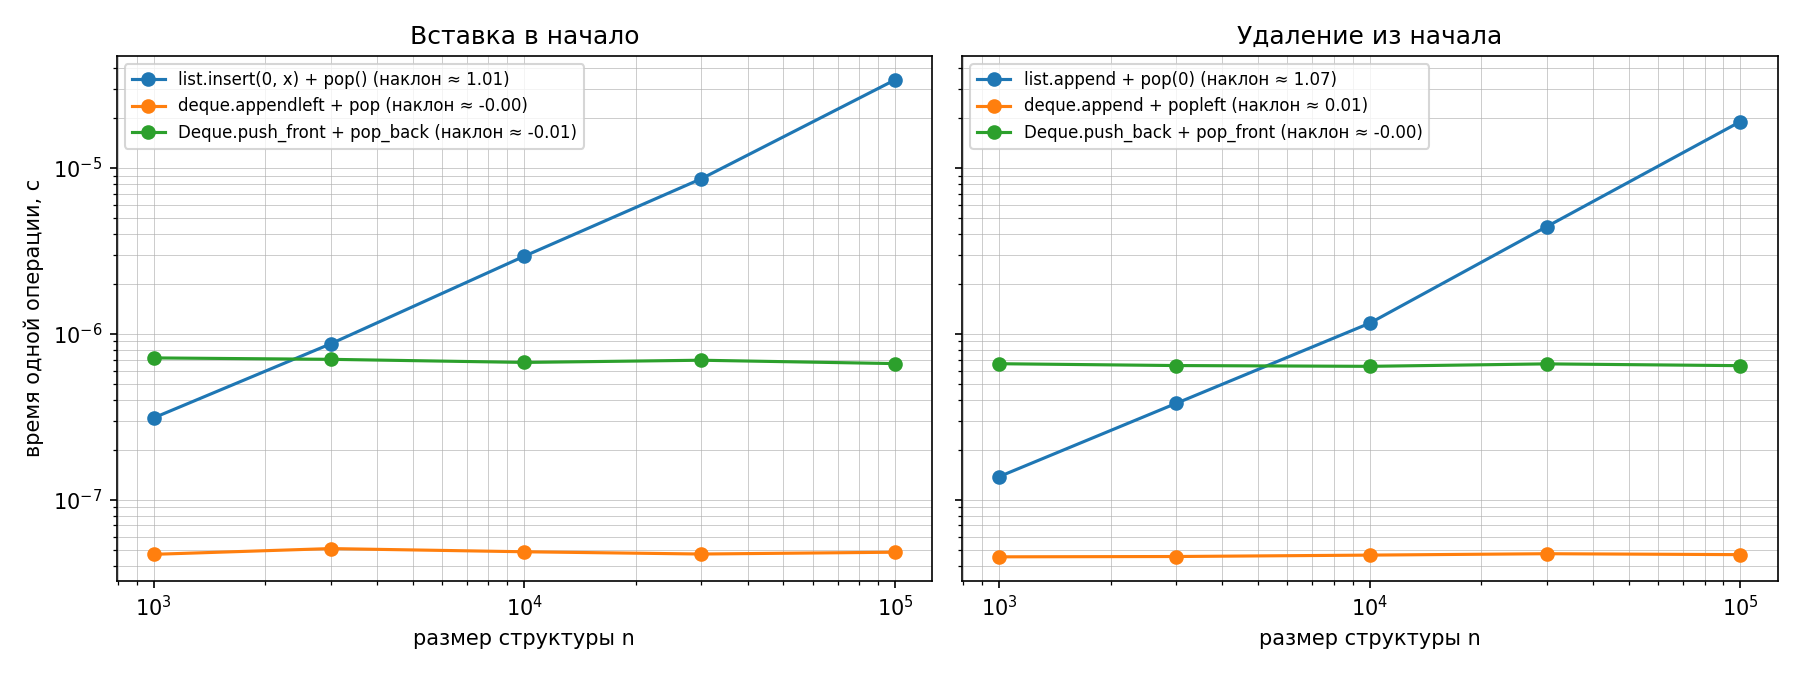
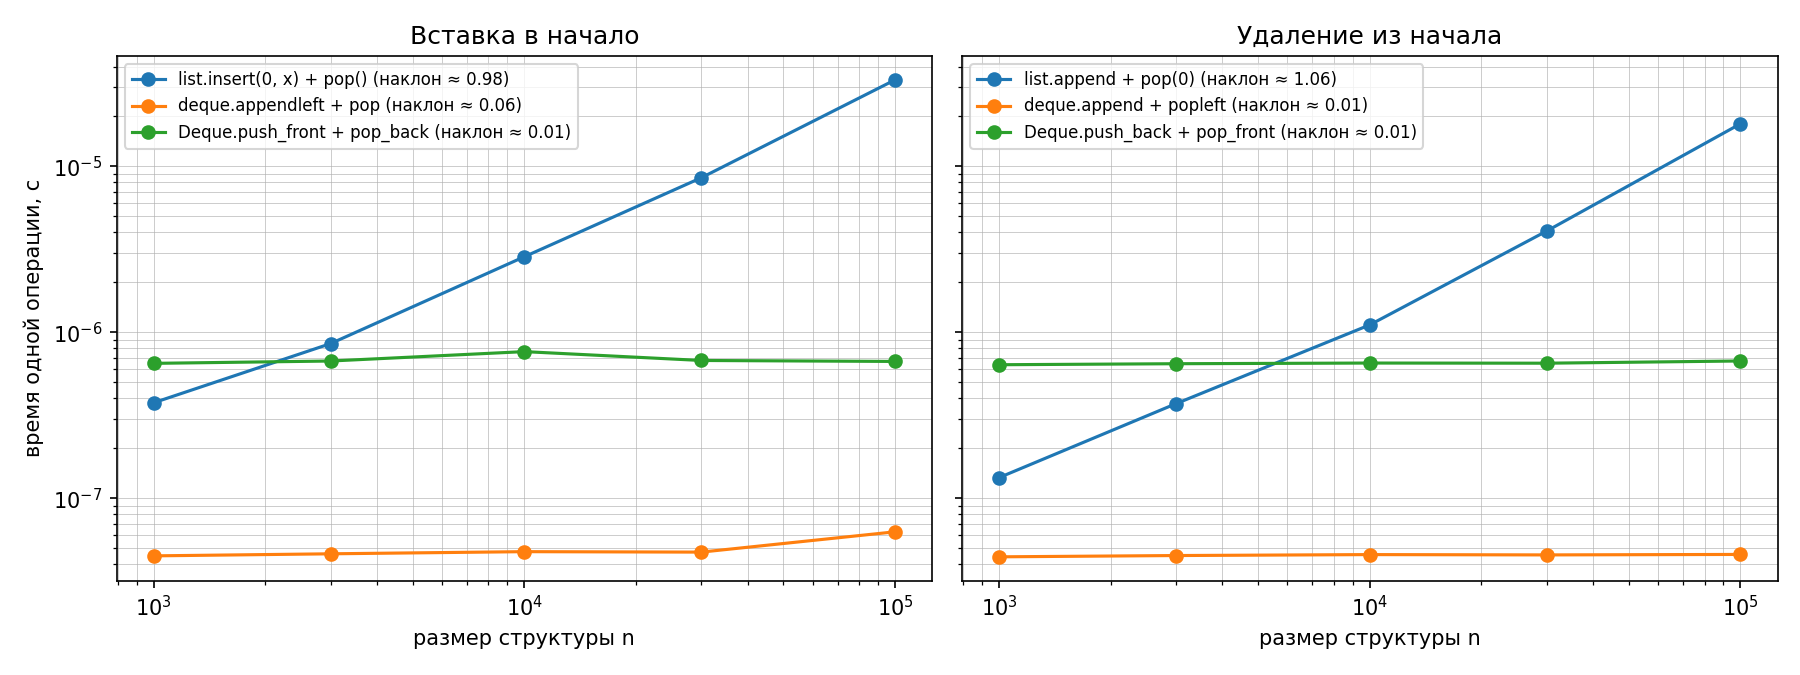
docs(report) redacting + invariants

diff --git a/M1-intro-and-basic-structures/attachments/lab02-recursion-structures-starter.py b/M1-intro-and-basic-structures/attachments/lab02-recursion-structures-starter.py
@@ -178,7 +178,7 @@ class DynamicArray:
     def append(self, value) -> None:
         """Добавить элемент в конец; при size == capacity сначала вызвать _grow.
 
-        Амортизированная сложность: TODO (обосновать методом учёта в отчёте).
+        Амортизированная сложность: O(1)
         """
 
         if self._size == self._capacity:
@@ -249,7 +249,7 @@ class Stack:
         return len(self._data)
 
     def push(self, value) -> None:
-        """Положить элемент на вершину. Амортизированная сложность: TODO."""
+        """Положить элемент на вершину. Амортизированная сложность: O(1)"""
 
         self._data.append(value)
 
@@ -260,8 +260,6 @@ class Stack:
 
     def peek(self):
         """Вернуть вершину без удаления; для пустого стека — IndexError."""
-        # TODO: для пустого стека — IndexError с понятным сообщением,
-        # иначе DynamicArray.get(len - 1)
 
         if len(self._data) == 0:
             raise IndexError("can't get any data from an empty stack")
@@ -296,8 +294,8 @@ class Deque:
         return self._size
 
     def push_front(self, value) -> None:
-        """Добавить элемент в начало. Сложность: TODO."""
-        # TODO: создать узел, перевязать ссылки head (учесть пустой дек)
+        """Добавить элемент в начало. Сложность: O(1)"""
+
         new_node = _Node(value)
 
         if self._head is None:
@@ -311,7 +309,7 @@ class Deque:
         self._size += 1
 
     def push_back(self, value) -> None:
-        """Добавить элемент в конец. Сложность: TODO."""
+        """Добавить элемент в конец. Сложность: O(1)"""
 
         new_node = _Node(value)
 
@@ -327,6 +325,7 @@ class Deque:
 
     def pop_front(self):
         """Извлечь элемент из начала; для пустого дека — IndexError."""
+
         if self._size == 0:
             raise IndexError("pop_front from an empty deque")
 
@@ -344,6 +343,7 @@ class Deque:
 
     def pop_back(self):
         """Извлечь элемент из конца; для пустого дека — IndexError."""
+
         if self._size == 0:
             raise IndexError("pop_back from an empty deque")
 
@@ -701,6 +701,46 @@ def check_variant_ops(stack_ops: list[Op], deque_ops: list[Op]) -> None:
                            std_deque_methods(collections.deque()), "ops_deque.txt")
 
 
+def check_invariants() -> None:
+    """Собственные проверки инвариантов структур."""
+
+    # DynamicArray
+    arr = DynamicArray()
+    for i in range(10):
+        arr.append(i)
+
+    expect(arr._size <= arr._capacity,
+           "DynamicArray: size > capacity")
+    expect(len(arr._buffer) == arr._capacity,
+           "DynamicArray: размер buffer не равен capacity")
+
+    # Deque
+    dq = Deque()
+    dq.push_back(1)
+    dq.push_back(2)
+    dq.push_front(0)
+
+    expect(dq._head is not None and dq._tail is not None,
+           "Deque: непустой дек имеет head и tail")
+    expect(dq._head.prev is None,
+           "Deque: head.prev != None")
+    expect(dq._tail.next is None,
+           "Deque: tail.next != None")
+    expect(dq._head.next.prev is dq._head,
+           "Deque: нарушена связь next/prev")
+    expect(dq._tail.prev.next is dq._tail,
+           "Deque: нарушена связь prev/next")
+
+    count = 0
+    node = dq._head
+    while node is not None:
+        count += 1
+        node = node.next
+
+    expect(count == dq._size,
+           "Deque: количество узлов не совпадает с size")
+
+
 def self_check(stack_ops: list[Op], deque_ops: list[Op]) -> None:
     """Все проверки по разделам; при любой ошибке замеры не выполняются."""
     checks = (
@@ -709,6 +749,7 @@ def self_check(stack_ops: list[Op], deque_ops: list[Op]) -> None:
         ("Stack", check_stack),
         ("Deque", check_deque),
         ("операции варианта", lambda: check_variant_ops(stack_ops, deque_ops)),
+        ("инварианты", check_invariants),
     )
     failed = 0
     print("self_check:")
@@ -728,7 +769,6 @@ def self_check(stack_ops: list[Op], deque_ops: list[Op]) -> None:
             failed += 1
         else:
             print(f"  {name}: OK")
-    # TODO: добавить собственные проверки инвариантов и описать их в отчёте.
     if failed:
         raise SystemExit(f"self_check: не пройдено разделов — {failed}; "
                          f"замеры выполняются только после всех проверок.")
@@ -825,7 +865,6 @@ def run_benchmarks(append_sizes: list[int], stack_ops: list[Op],
         fib_memo(n)
         print(f"  n={n:>2}  F(n)={value:>6}  fib_naive: {CALLS['fib_naive']:>7} вызовов"
               f"  fib_memo: {CALLS['fib_memo']:>2} вызовов")
-    # TODO: вывести в отчёте формулы числа вызовов обеих функций и сверить с таблицей.
 
     print("\nСерии append на размерах варианта:")
     results["append"] = []
@@ -838,8 +877,6 @@ def run_benchmarks(append_sizes: list[int], stack_ops: list[Op],
         results["append"].append((n, t_own, t_list, cost))
         print(f"  n={n:>7}  t/n: DynamicArray {t_own:.2e} c, list {t_list:.2e} c"
               f"  копирований {arr.copies:>7}  (n + копирования)/n = {cost:.3f}")
-    # TODO: объяснить методом учёта, почему (n + копирования)/n < 3 и почему
-    # у соседних размеров 2**k и 2**k + 1 эта величина различается почти на 1.
 
     for key, title in FRONT_TITLES.items():
         print(f"\n{title}: время одной операции при размере n = "
@@ -866,8 +903,6 @@ def run_benchmarks(append_sizes: list[int], stack_ops: list[Op],
         t_ref = bench(lambda: replay(ops, make_ref())) / len(ops)
         print(f"  {name}: {own_label} {t_own:.2e} c, {ref_label} {t_ref:.2e} c"
               f" — в {t_own / t_ref:.1f} раза медленнее")
-    # TODO: объяснить, откуда постоянный множитель между своими и стандартными
-    # структурами, если асимптотика операций одинакова.
     return results
 
 
@@ -928,8 +963,6 @@ def plot_results(results: dict, out_dir: Path) -> None:
     fig2.savefig(front_path, dpi=150)
 
     print(f"\nГрафики сохранены:\n  {append_path}\n  {front_path}")
-    # TODO: в отчёте объяснить, почему у list.insert(0, x) и list.pop(0) наклон
-    # около 1, а у операций на концах deque и своего Deque — около 0.
 
 
 # ---------------------------------------------------------------------------

diff --git a/M1-intro-and-basic-structures/attachments/draft.py b/M1-intro-and-basic-structures/attachments/draft.py
@@ -122,7 +122,7 @@ class DynamicArray:
     def append(self, value) -> None:
         """Добавить элемент в конец; при size == capacity сначала вызвать _grow.
 
-        Амортизированная сложность: TODO (обосновать методом учёта в отчёте).
+        Амортизированная сложность: O(1)
         """
 
         if self._size == self._capacity:
